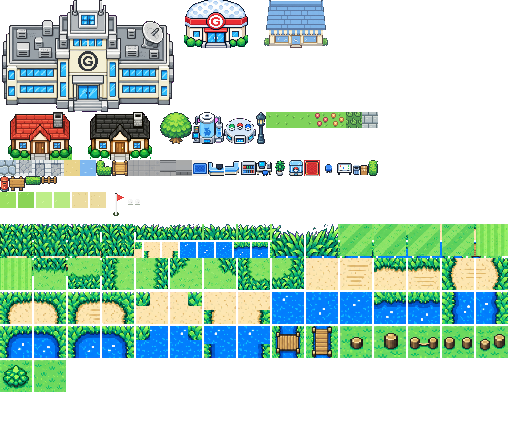
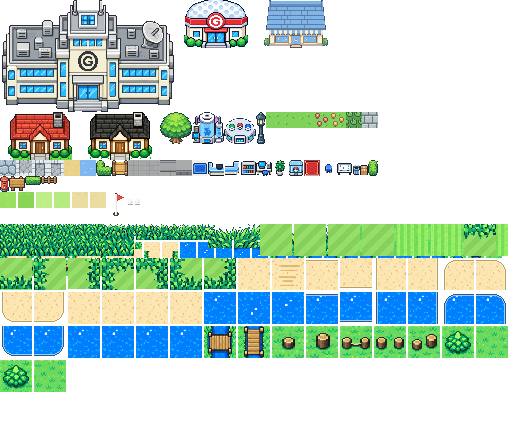
コースタイルの仕上げ（tools/course-finish.py）：ラフは24ドット・5色に減色してドット感を出す、フェアウェイは45度の刈り跡を1タイルで継ぎ目なく描き直し、ラフとの境目は波形マスクで合成、バンカー・池の13枚は丸い角＋1ドット縁取りで自前描画（外側は透明で下のフェアウェイが見える）
Claude-Session: https://claude.ai/code/session_018VDSYCPciSbMvR8kKaJDnr

Changed region(s): [[0.0, 0.5164, 1.0, 0.8505]]

diff --git a/tools/course-finish.py b/tools/course-finish.py
@@ -1,0 +1,103 @@
+#!/usr/bin/env python3
+"""コースタイルの仕上げ（course-tiles.py のあとに実行）
+   ・ラフ：色数を落としてドット感を出す（5色）
+   ・フェアウェイ：45度の刈り跡を 1タイルで継ぎ目なく描き直す（周期16ドット）。ラフとの境目は ラフを波形マスクで重ねて合成
+   ・バンカー／池：13枚を自前で描く（中央の質感は ChatGPT製、縁は丸い角＋1ドットの縁取り、外側は透明＝下のフェアウェイが見える）"""
+import json, math, random
+from PIL import Image, ImageDraw
+import numpy as np
+j = json.load(open('assets/tiles.json')); atlas = Image.open('assets/tiles.png').convert('RGBA')
+N = 32
+def get(name): x, y, w, h = j[name]; return atlas.crop((x, y, x + w, y + h))
+def put(name, im):
+    x, y, w, h = j[name]
+    if (w, h) != im.size: im = im.resize((w, h), Image.NEAREST)
+    atlas.paste(im, (x, y))
+random.seed(5)
+
+# ---- ラフ：5色に減色（ドット感） ----
+def posterize(im, n):
+    rgb = im.convert('RGB').quantize(n, method=Image.Quantize.MEDIANCUT, dither=Image.Dither.NONE).convert('RGBA')
+    a = np.asarray(im)[:, :, 3]; out = np.asarray(rgb).copy(); out[:, :, 3] = a; return Image.fromarray(out, 'RGBA')
+for k in ['rough0', 'rough1', 'rough2', 'rough3', 'rough_fg0', 'rough_fg1', 'rough_fg2', 'rough_fg3', 'rough_stepL', 'rough_stepR']:
+    put(k, posterize(get(k), 5))
+
+# ---- フェアウェイ：きれいな斜めじま ----
+LIGHT, DARK = (150, 222, 104), (134, 208, 92)
+def fairway():
+    im = Image.new('RGBA', (N, N)); px = im.load()
+    for y in range(N):
+        for x in range(N):
+            c = LIGHT if ((x + y) // 8) % 2 == 0 else DARK
+            px[x, y] = c + (255,)
+    # ごく薄い芝の点
+    d = ImageDraw.Draw(im)
+    for _ in range(10):
+        x, y = random.randint(0, N - 2), random.randint(0, N - 2); base = px[x, y][:3]
+        d.point((x, y), tuple(min(255, c + 12) for c in base) + (255,))
+    return im
+fw = fairway()
+for k in ['fairway0', 'fairway1', 'fairway2', 'fairway3']: put(k, fw)
+
+# ---- フェアウェイ↔ラフの境目：ラフを波形マスクで重ねる ----
+def wave_mask(side, depth=11):
+    m = Image.new('L', (N, N), 0); px = m.load()
+    for i in range(N):
+        d = depth + int(3 * math.sin(i * 0.9) + 2 * math.sin(i * 0.37 + 1))
+        for t in range(N):
+            if side == 'u' and t < d: px[i, t] = 255
+            if side == 'd' and t >= N - d: px[i, t] = 255
+            if side == 'l' and t < d: px[t, i] = 255
+            if side == 'r' and t >= N - d: px[t, i] = 255
+    return m
+def corner_mask(a, b):
+    ma, mb = wave_mask(a), wave_mask(b); out = Image.new('L', (N, N), 0)
+    pa, pb, po = ma.load(), mb.load(), out.load()
+    for y in range(N):
+        for x in range(N):
+            if pa[x, y] or pb[x, y]: po[x, y] = 255
+    return out
+rough = get('rough0').resize((N, N), Image.NEAREST)
+for name, m in [('fr_u', wave_mask('u')), ('fr_d', wave_mask('d')), ('fr_l', wave_mask('l')), ('fr_r', wave_mask('r')),
+                ('fr_ul', corner_mask('u', 'l')), ('fr_ur', corner_mask('u', 'r')), ('fr_dl', corner_mask('d', 'l')), ('fr_dr', corner_mask('d', 'r'))]:
+    base = fw.copy(); base.paste(rough, (0, 0), m); put(name, base)
+
+# ---- バンカー／池：13枚ブロブ ----
+def blob_set(prefix, center_names, outline, rim):
+    tex = [get(c) for c in center_names]
+    R = 12   # 角の丸み
+    def shape_mask(kind):
+        """砂（水）の領域：kind = c / u d l r / ul ur dl dr（外角）/ iul iur idl idr（内角）"""
+        m = Image.new('L', (N, N), 0); d = ImageDraw.Draw(m)
+        if kind == 'c': d.rectangle([0, 0, N, N], fill=255)
+        elif kind in ('u', 'd', 'l', 'r'):
+            box = {'u': [0, 2, N, N], 'd': [0, 0, N, N - 3], 'l': [2, 0, N, N], 'r': [0, 0, N - 3, N]}[kind]; d.rectangle(box, fill=255)
+        elif kind in ('ul', 'ur', 'dl', 'dr'):
+            x0 = 2 if 'l' in kind else -N; y0 = 2 if 'u' in kind else -N
+            d.rounded_rectangle([x0, y0, x0 + 2 * N - 3, y0 + 2 * N - 3], radius=R, fill=255)
+        else:   # 内角：全面＋対角の外側だけ丸く欠ける
+            d.rectangle([0, 0, N, N], fill=255); c = kind[1:]
+            cx = -R + 1 if 'l' in c else N + R - 2; cy = -R + 1 if 'u' in c else N + R - 2
+            d.ellipse([cx - R, cy - R, cx + R, cy + R], fill=0)
+        return m
+    for kind in ['c', 'u', 'd', 'l', 'r', 'ul', 'ur', 'dl', 'dr', 'iul', 'iur', 'idl', 'idr']:
+        m = shape_mask(kind); arr = np.asarray(m) > 0
+        # 縁取り：領域の内側1ドット
+        inner = arr.copy(); inner[1:, :] &= arr[:-1, :]; inner[:-1, :] &= arr[1:, :]; inner[:, 1:] &= arr[:, :-1]; inner[:, :-1] &= arr[:, 1:]
+        edge = arr & ~inner
+        inner2 = inner.copy(); inner2[1:, :] &= inner[:-1, :]; inner2[:-1, :] &= inner[1:, :]; inner2[:, 1:] &= inner[:, :-1]; inner2[:, :-1] &= inner[:, 1:]
+        rimm = inner & ~inner2
+        names = [f'{prefix}_c0', f'{prefix}_c1'] + ([f'{prefix}_c2'] if f'{prefix}_c2' in j else []) if kind == 'c' else [f'{prefix}_{kind}']
+        for i, nm in enumerate(names):
+            t = np.asarray(tex[i % len(tex)]).copy(); t[~arr] = 0
+            t[edge] = outline + (255,); t[rimm & (arr)] = rim + (255,)
+            if kind == 'c': t = np.asarray(tex[i % len(tex)]).copy()
+            put(nm, Image.fromarray(t, 'RGBA'))
+blob_set('bk', ['bk_c0', 'bk_c1'], (186, 160, 96), (248, 236, 196))
+blob_set('pd', ['pd_c0', 'pd_c1', 'pd_c2'], (40, 90, 150), (150, 205, 240))
+atlas.save('assets/tiles.png'); json.dump(j, open('assets/tiles.json', 'w'))
+# プレビュー
+names = ['rough0', 'rough1', 'fairway0', 'fr_u', 'fr_l', 'fr_ul', 'fr_dr', 'bk_c0', 'bk_u', 'bk_l', 'bk_ul', 'bk_iul', 'pd_c0', 'pd_u', 'pd_ul', 'pd_iul']
+pv = Image.new('RGBA', (34 * 8, 34 * 2), (255, 0, 255, 255))
+for i, n in enumerate(names): pv.paste(get(n), ((i % 8) * 34, (i // 8) * 34))
+pv.resize((pv.width * 3, pv.height * 3), Image.NEAREST).save('/tmp/claude-0/finish_preview.png'); print('ok')

diff --git a/tools/course-tiles.py b/tools/course-tiles.py
@@ -47,10 +47,11 @@ names = [['rough0', 'rough1', 'rough2', 'rough3'], ['rough_fg0', 'rough_fg1', 'r
          ['fairway0', 'fairway1', 'fairway2', 'fairway3'], ['green0', 'green1'], ['fr_u', 'fr_d', 'fr_l', 'fr_r', 'fr_ul', 'fr_ur', 'fr_dl', 'fr_dr']]
 for row, nm in zip(rows, names):
     for (y, x, w, h), name in zip(row, nm):
-        dot = w / 32; th = max(1, round(h / dot))
-        if name.startswith('rough_fg'): th = 16
-        if name.startswith('rough_step'): th = 32
-        tiles[name] = pixelize(A, mag, y, x, w, h, 32, th)
+        RD = int(__import__('os').environ.get('ROUGH_DOTS', '24')); tw = RD if name.startswith('rough') else 32
+        dot = w / tw; th = max(1, round(h / dot))
+        if name.startswith('rough_fg'): th = tw // 2
+        if name.startswith('rough_step'): th = tw
+        tiles[name] = pixelize(A, mag, y, x, w, h, tw, th)
 # ---- 砂・水シート ----
 A, mag, rows = comps('assets/src/course_sheet_water.png')
 names = [['bk_c0', 'bk_c1', 'bk_u', 'bk_d', 'bk_l', 'bk_r'], ['bk_ul', 'bk_ur', 'bk_dl', 'bk_dr', 'bk_iul', 'bk_iur', 'bk_idl', 'bk_idr'],
